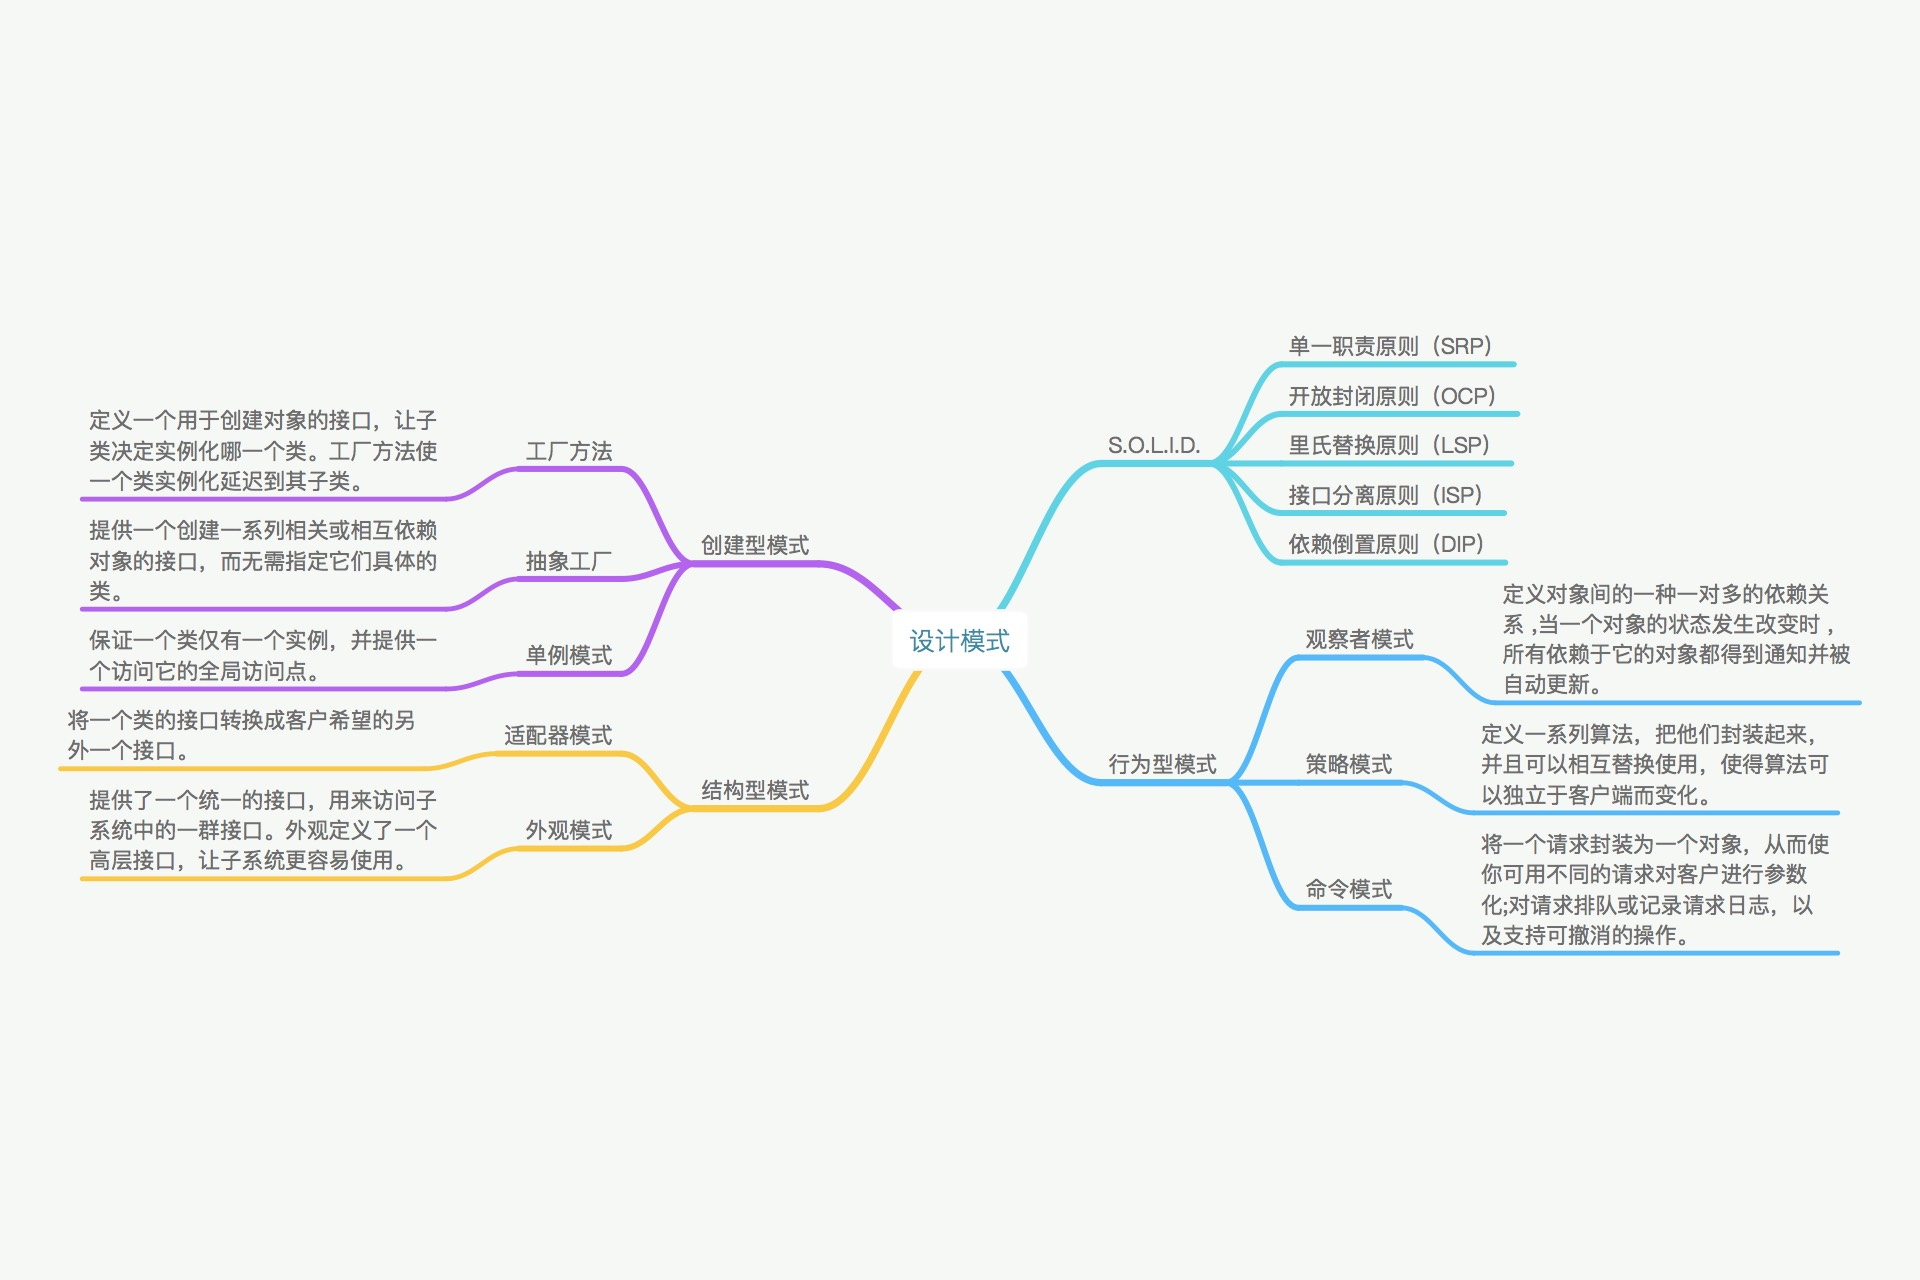
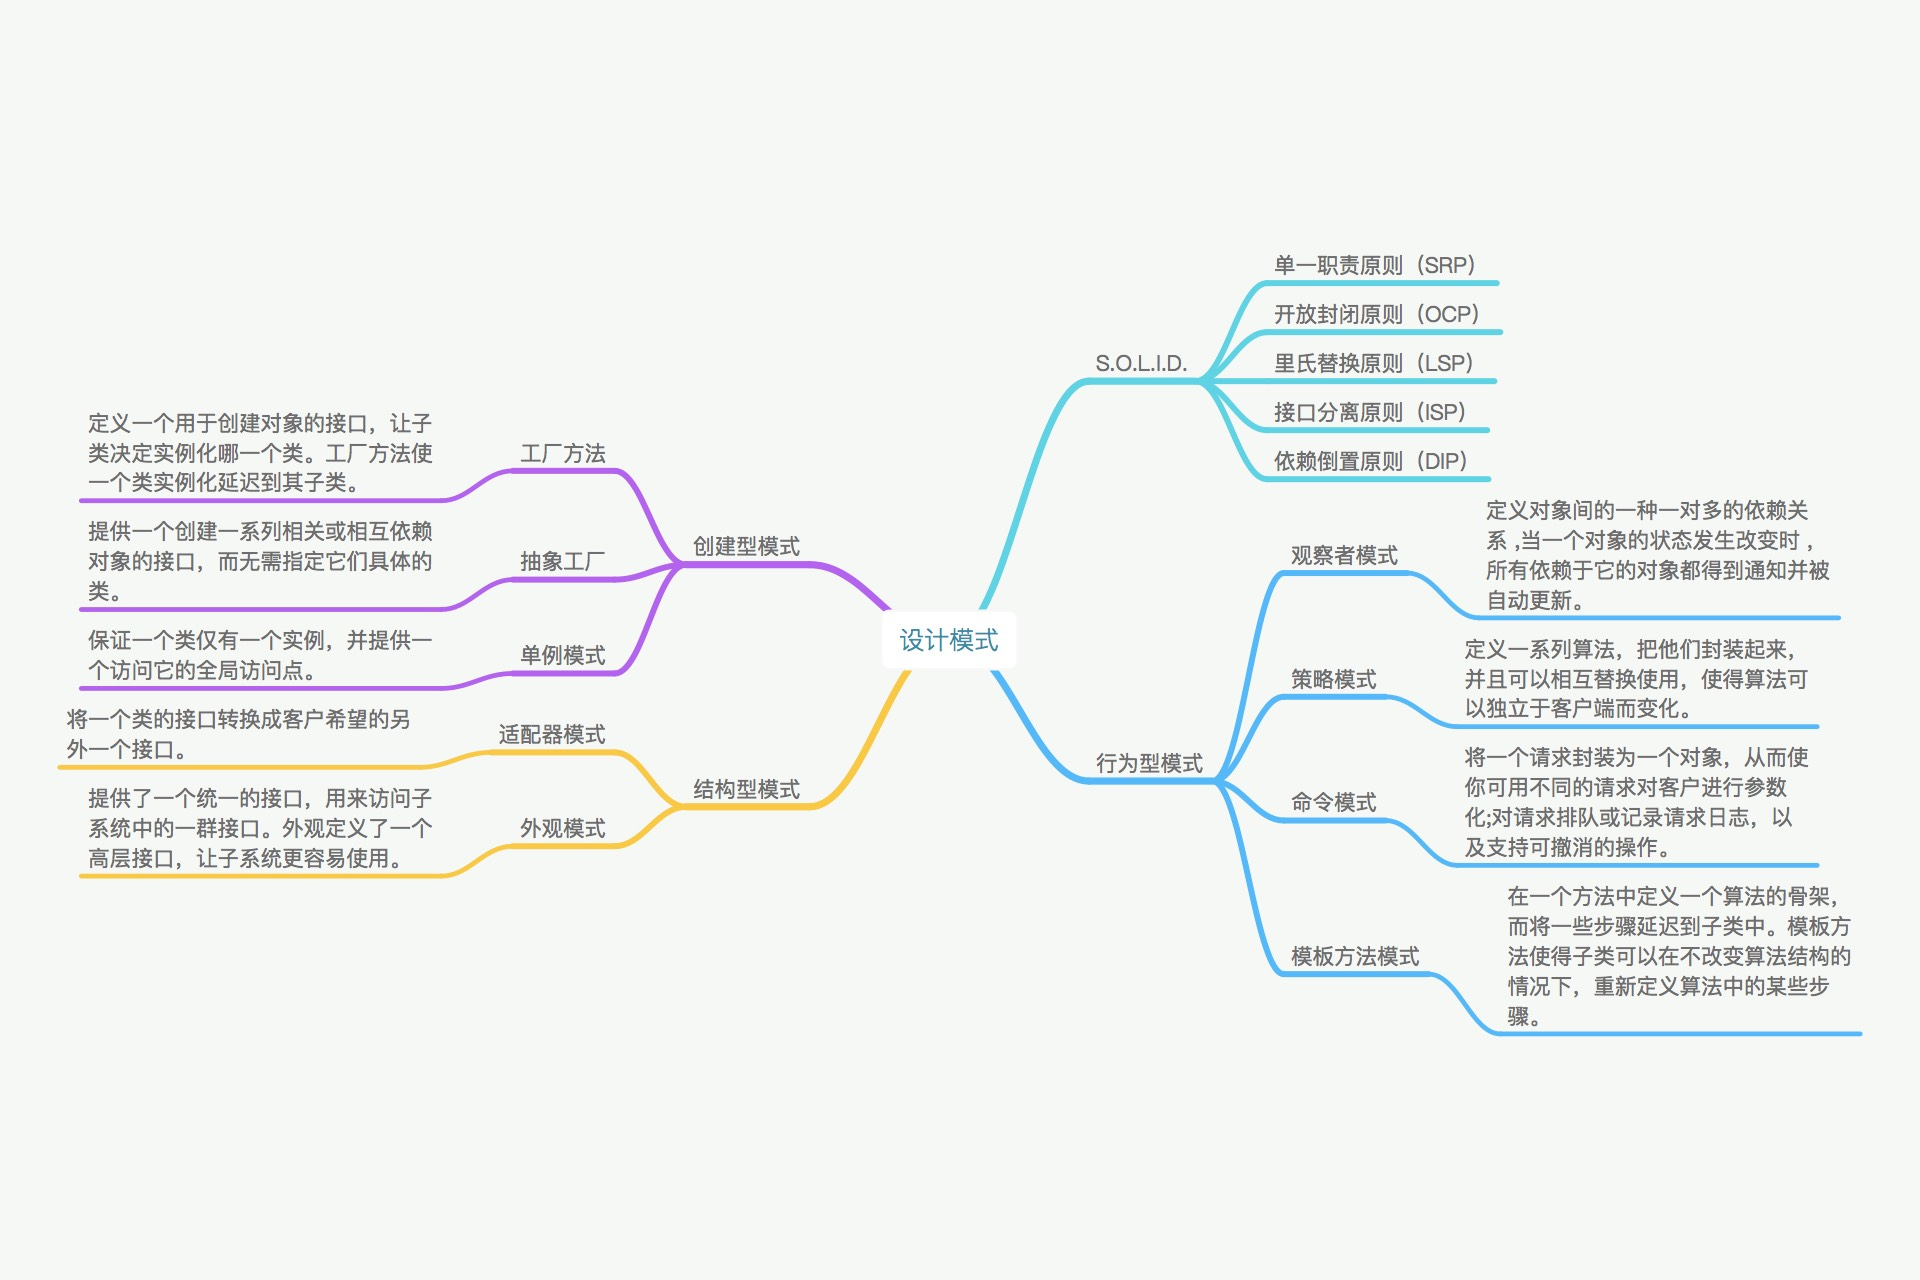
feat: template method
add readme
add cheet

Changed region(s): [[0.0312, 0.1875, 0.9688, 0.8125], [0.25, 0.4062, 0.4688, 0.5312], [0.25, 0.3438, 0.3438, 0.4062]]

diff --git a/behavioral/README.md b/behavioral/README.md
@@ -3,6 +3,7 @@
 - [观察者模式（Observer）](#观察者模式)
 - [策略模式（Strategy）](#策略模式)
 - [命令模式（Command）](#命令模式)
+- [模板方法模式（Template Method）](#模板方法模式)
 
 ## 观察者模式
 
@@ -477,5 +478,27 @@ if __name__ == '__main__':
     except:
         print('\nraise a error, start to undo:\n')
         file_operation.undo()
+```
+
+## 模板方法模式
+
+### 定义
+
+在一个方法中定义一个算法的骨架，而将一些步骤延迟到子类中。模板方法使得子类可以在不改变算法结构的情况下，重新定义算法中的某些步骤。
+
+### 动机
+
+设计一个应用框架，这个框架按照固定的流程实现，但是某些方法需要子类来提供。也可以提供钩子，让子类来决定做什么。
+
+### 适用性
+
+- 一次性实现一个算法的不变部分，将可变的行为留给子类实现。
+- 各子类中公共方法的行为应被提取出来并集中到一个公共父类中以避免代码重复。
+- 控制子类扩展，在特定的点调用钩子操作，只允许在这些点进行扩展。
+
+### 实现
+
+```python
+
 ```
 
